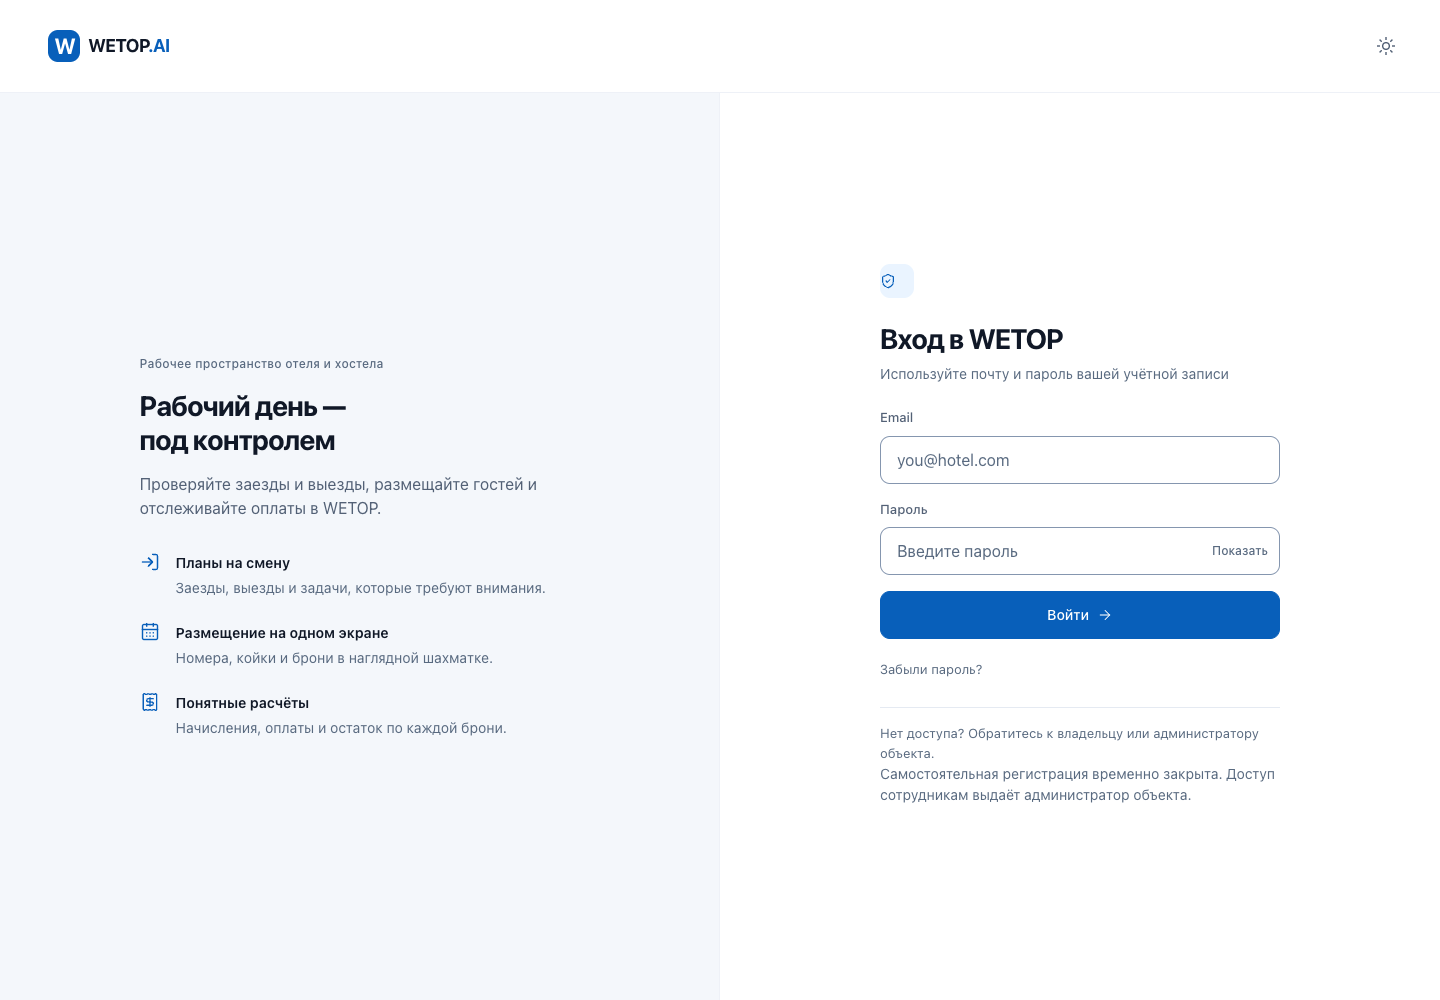
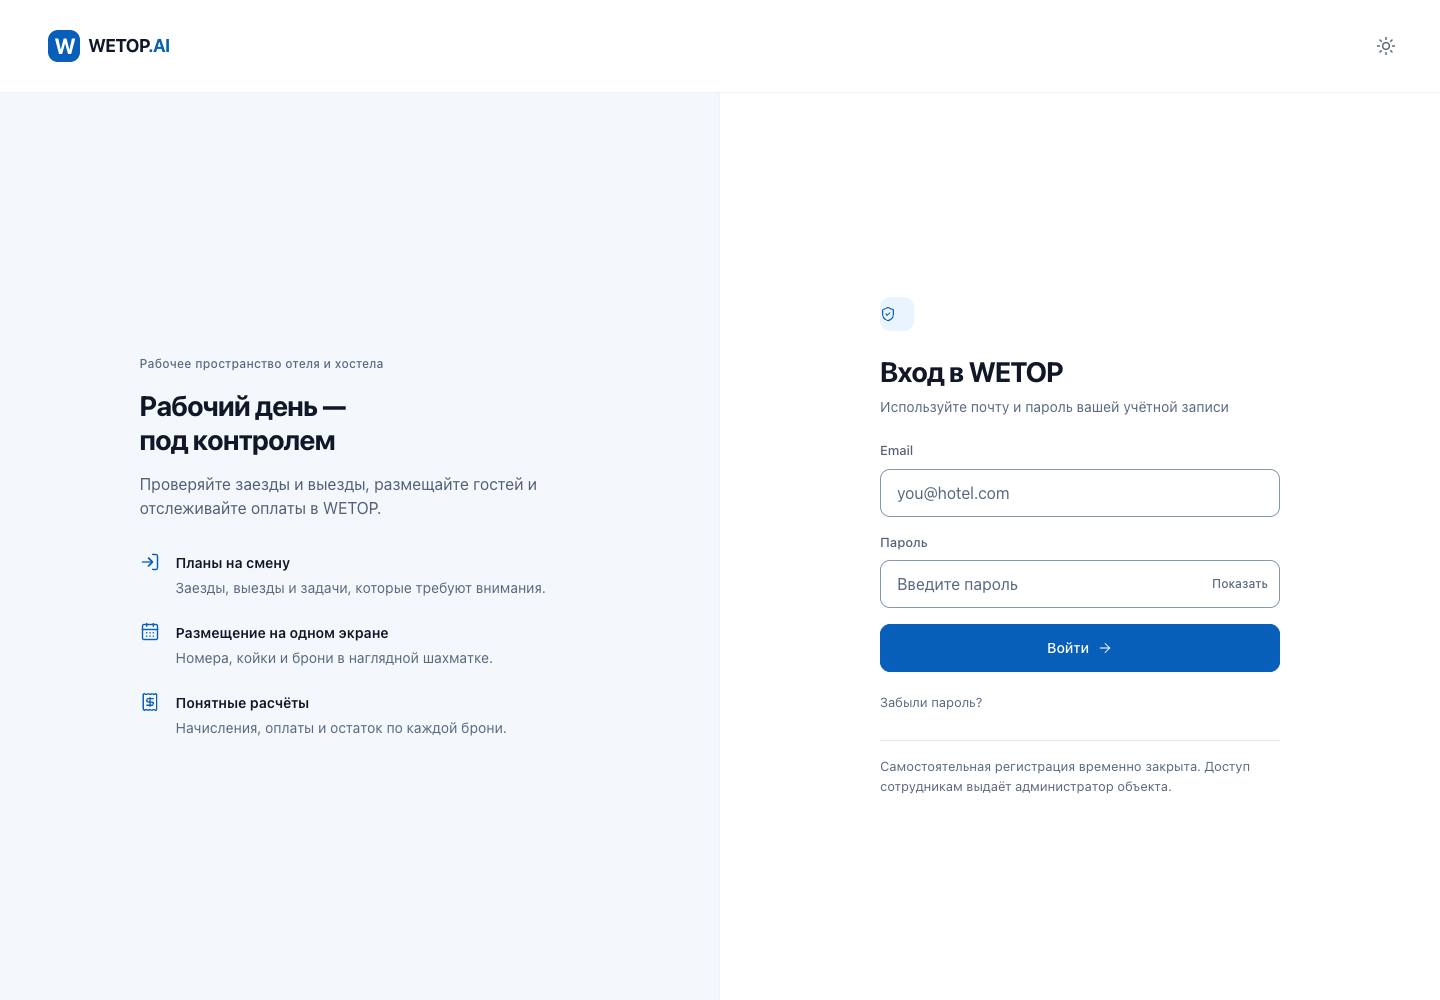
fix(ui): show one clear registration restriction notice

Changed region(s): [[0.5938, 0.31, 0.9062, 0.806]]

diff --git a/apps/web/src/app/login/login-form.tsx b/apps/web/src/app/login/login-form.tsx
@@ -307,7 +307,12 @@ export function LoginForm({
                 Забыли пароль?
               </Link>
               <div className="login-preview">
-                {accessEmail ? (
+                {!registrationEnabled && initialMode === 'register' ? (
+                  <span role="status">
+                    Самостоятельная регистрация временно закрыта. Доступ сотрудникам выдаёт
+                    администратор объекта.
+                  </span>
+                ) : accessEmail ? (
                   <>
                     <span>Cloudflare Access пропустил {accessEmail}</span>
                     {/* путь Cloudflare, не маршрут приложения: обычная ссылка, не next/link */}
@@ -321,7 +326,7 @@ export function LoginForm({
                   </span>
                 )}
               </div>
-              {registrationEnabled ? (
+              {registrationEnabled && (
                 <div className="login-preview">
                   <span>Ещё нет организации?</span>
                   <button
@@ -333,12 +338,7 @@ export function LoginForm({
                     Регистрация
                   </button>
                 </div>
-              ) : initialMode === 'register' ? (
-                <p role="status">
-                  Самостоятельная регистрация временно закрыта. Доступ сотрудникам выдаёт
-                  администратор объекта.
-                </p>
-              ) : null}
+              )}
             </>
           ) : (
             <>

diff --git a/tests/runs/JOURNAL.md b/tests/runs/JOURNAL.md
@@ -1179,3 +1179,4 @@
 | 20.09.2026 20:21 | unit | ✅ 1285 из 1288, пропущено 3 | 2 мин 13 с | 8ac3933 +1 | [лог](logs/2026-09-20T15-21-48Z-unit-6cc9.log) | Q-152 final full unit suite after main sync, two workers to avoid local process contention |
 | 20.09.2026 20:24 | lint | ✅ без ошибок | 12 с | 8ac3933 +2 | [лог](logs/2026-09-20T15-24-59Z-lint-a088.log) | Q-152 final combined main: lint |
 | 20.09.2026 20:24 | typecheck | ✅ без ошибок | 19 с | 8ac3933 +2 | [лог](logs/2026-09-20T15-24-59Z-typecheck-5ff8.log) | Q-152 final combined main: TypeScript root, API and web |
+| 20.09.2026 20:27 | e2e (частично: --config tests/ui/playwright.config.ts tests/ui/registration-closed.spec.ts --workers=1) | ✅ 5 из 5 | 37 с | 890cfda +1 | [лог](logs/2026-09-20T15-27-34Z-e2e-683e.log) | Q-152: final registration notice shown once after visual review |

diff --git a/reports/registration-closed-2026-09-20/report.md b/reports/registration-closed-2026-09-20/report.md
@@ -39,6 +39,8 @@
   501 тестового сервера вместо реального 404 у удалённого входа по коду), затем
   **10/10** для исправленного стенда: регистрация и сеансы
   (`2026-09-20T15-22-25Z-e2e-bf8a`). Это два прогона, не заявленные 38/38 одним запуском.
+  После удаления повторяющегося пояснения — ещё 5/5 сценариев регистрации
+  (`2026-09-20T15-27-34Z-e2e-683e`) и повторная проверка настоящего localhost.
   Полный набор интерфейса дополнительно запускается в CI.
 - Root/API/web typecheck и ESLint после объединения прошли:
   `2026-09-20T15-24-59Z-typecheck-5ff8`, `2026-09-20T15-24-59Z-lint-a088`.
